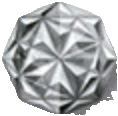
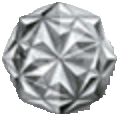
ネクサスもメインステップの手動コア移動でレベルを上げ下げできるようにした
moveCore が findSpirit しか見ておらず、**ネクサスは配置時に指定したレベルから変えられなかった**
（効果によるコア増減を除く）。利用者の指摘により修正。

- RuleValidator.validateMoveCore / GameEngine.doMoveCore がネクサスも対象にする。
  ネクサスの Lv1 は全カード0コアのため、既存の維持コア判定のままコア0まで戻せる
  （コアが無いネクサスからの取り除きは「コアが置かれていません」で拒否）
- exhaustOnManualCoreAdd（夢魔の寝所／魔影街）は効果文が「コアの数を増やした**スピリット**すべては
  疲労する」のため、ネクサスへのコア追加では発火させない
- クライアント: 自分のネクサスにもメインステップ中は +/− ボタンを出し、my-nexuses の
  クリックハンドラで data-core を先に処理する（スピリット側と同じ形）。
  ボタン生成は coreButtonsEl として共通化した

part86 で回帰（レベル上昇・下降・0まで戻せること・タイミングと持ち主の制限・寝所が反応しないこと）。
smoke 3,117件 / validate:cards 緑 / typecheck 緑 / build 緑。

diff --git a/scripts/smoke/part86.ts b/scripts/smoke/part86.ts
@@ -1,0 +1,93 @@
+// smoke パート86（ネクサスの手動コア移動＝レベルの上げ下げ）
+//
+// 従来 moveCore は findSpirit しか見ておらず、**ネクサスは配置時に指定したレベルから変えられなかった**
+// （効果によるコア増減を除く）。メインステップにコアを置く／戻すでレベルを上下できるようにした。
+// ネクサスの Lv1 は全カード0コアのため、既存の維持コア判定でそのまま0まで戻せる。
+import { act, assert, createGame, createInstance, currentLevel } from "./helpers"
+import type { GameState } from "./helpers"
+
+function setup(seed: string): GameState {
+    const s = createGame(seed, { p1: "アキラ", p2: "ユウキ" }, { p1: "red", p2: "purple" })
+    s.turn = 3
+    s.turnPlayer = "p1"
+    s.phase = "main"
+    s.players.p1.field.spirits = []
+    s.players.p2.field.spirits = []
+    s.players.p1.field.nexuses = []
+    s.players.p2.field.nexuses = []
+    s.players.p1.reserve = 5
+    s.players.p2.reserve = 5
+    return s
+}
+
+console.log("=== ネクサスにコアを置いてレベルを上げられる ===")
+{
+    const s = setup("nexus-corelevel-test")
+    const nexus = createInstance("BS01-098", s.turn, 0) // 燃えさかる戦場（Lv1=0 / Lv2=2コア）
+    s.players.p1.field.nexuses.push(nexus)
+    assert(currentLevel(nexus).level === 1, "配置直後はLv1")
+
+    assert(act(s, "p1", { type: "moveCore", instanceId: nexus.instanceId, direction: "add" }) === null, "コアを1個置く")
+    assert(act(s, "p1", { type: "moveCore", instanceId: nexus.instanceId, direction: "add" }) === null, "コアをもう1個置く")
+    assert(nexus.cores === 2, "ネクサスのコアが2個になる")
+    assert(currentLevel(nexus).level === 2, "Lv2になる")
+    assert(s.players.p1.reserve === 3, "リザーブから2個減る")
+}
+
+console.log("--- コアを戻してレベルを下げられる（0まで戻せる） ---")
+{
+    const s = setup("nexus-coredown-test")
+    const nexus = createInstance("BS01-098", s.turn, 2)
+    s.players.p1.field.nexuses.push(nexus)
+    assert(currentLevel(nexus).level === 2, "Lv2から開始")
+
+    assert(act(s, "p1", { type: "moveCore", instanceId: nexus.instanceId, direction: "remove" }) === null, "コアを1個戻す")
+    assert(currentLevel(nexus).level === 1, "Lv1に下がる")
+    assert(act(s, "p1", { type: "moveCore", instanceId: nexus.instanceId, direction: "remove" }) === null, "もう1個戻す")
+    assert(nexus.cores === 0, "コア0個まで戻せる（ネクサスのLv1は0コア）")
+    assert(s.players.p1.reserve === 7, "戻したコアがリザーブへ")
+
+    assert(
+        act(s, "p1", { type: "moveCore", instanceId: nexus.instanceId, direction: "remove" }) !== null,
+        "コアが無いネクサスからはこれ以上戻せない",
+    )
+}
+
+console.log("--- メインステップ以外・相手のネクサスは操作できない ---")
+{
+    const s = setup("nexus-core-timing-test")
+    const nexus = createInstance("BS01-098", s.turn, 0)
+    s.players.p1.field.nexuses.push(nexus)
+    const oppNexus = createInstance("BS01-098", s.turn, 0)
+    s.players.p2.field.nexuses.push(oppNexus)
+
+    s.phase = "attack"
+    assert(
+        act(s, "p1", { type: "moveCore", instanceId: nexus.instanceId, direction: "add" }) !== null,
+        "アタックステップでは操作できない",
+    )
+    s.phase = "main"
+    assert(
+        act(s, "p1", { type: "moveCore", instanceId: oppNexus.instanceId, direction: "add" }) !== null,
+        "相手のネクサスは操作できない",
+    )
+}
+
+console.log("--- 夢魔の寝所（コアを増やしたスピリットを疲労させる）はネクサスには反応しない ---")
+{
+    const s = setup("nexus-core-nemuri-test")
+    // 相手（p2）のフィールドに夢魔の寝所 Lv1。効果は『相手のメインステップ』＝p1のメインステップに効く
+    const bed = createInstance("BS02-078", s.turn, 0)
+    s.players.p2.field.nexuses.push(bed)
+
+    const myNexus = createInstance("BS01-098", s.turn, 0)
+    s.players.p1.field.nexuses.push(myNexus)
+    const mySpirit = createInstance("BS01-001", s.turn, 1)
+    s.players.p1.field.spirits.push(mySpirit)
+
+    assert(act(s, "p1", { type: "moveCore", instanceId: myNexus.instanceId, direction: "add" }) === null, "ネクサスにコアを置く")
+    assert(!myNexus.isRested, "ネクサスは疲労しない（効果の対象はスピリット）")
+
+    assert(act(s, "p1", { type: "moveCore", instanceId: mySpirit.instanceId, direction: "add" }) === null, "スピリットにコアを置く")
+    assert(mySpirit.isRested, "スピリットは従来どおり疲労する")
+}

diff --git a/public/src/renderer.ts b/public/src/renderer.ts
@@ -560,6 +560,21 @@ function renderField(
     }
 }
 
+// コア移動ボタン（+/−）。スピリットとネクサスで共用する
+function coreButtonsEl(instanceId: string): HTMLElement {
+    const btns = document.createElement("div")
+    btns.className = "core-buttons"
+    for (const dir of ["add", "remove"] as const) {
+        const b = document.createElement("button")
+        b.dataset.core = dir
+        b.dataset.instanceId = instanceId
+        b.textContent = dir === "add" ? "+" : "−"
+        b.title = dir === "add" ? "リザーブからコアを置く" : "コアをリザーブへ戻す"
+        btns.appendChild(b)
+    }
+    return btns
+}
+
 function fieldCardEl(
     view: GameView,
     ui: UiState,
@@ -659,6 +674,11 @@ function fieldCardEl(
             if (assigned < inst.cores) {
                 el.classList.add("targetable", "clickable")
             }
+            return el
+        }
+        // コア移動ボタン（メインステップのみ）。ネクサスもコアを置いてレベルを上げ下げできる
+        if (isMine && myMainFree && !view.pendingChoice) {
+            el.appendChild(coreButtonsEl(inst.instanceId))
         }
         return el
     }
@@ -771,17 +791,7 @@ function fieldCardEl(
         }
         // コア移動ボタン（メインステップのみ）
         if (myMainFree) {
-            const btns = document.createElement("div")
-            btns.className = "core-buttons"
-            for (const dir of ["add", "remove"] as const) {
-                const b = document.createElement("button")
-                b.dataset.core = dir
-                b.dataset.instanceId = inst.instanceId
-                b.textContent = dir === "add" ? "+" : "−"
-                b.title = dir === "add" ? "リザーブからコアを置く" : "コアをリザーブへ戻す"
-                btns.appendChild(b)
-            }
-            el.appendChild(btns)
+            el.appendChild(coreButtonsEl(inst.instanceId))
         }
     } else {
         // 指定アタックの対象選択モード中：フィルタに合う相手スピリットのみ選択可能

diff --git a/server/src/logic/RuleValidator.ts b/server/src/logic/RuleValidator.ts
@@ -317,11 +317,14 @@ export function validateMoveCore(
     const timing = checkMainTiming(state, pid)
     if (timing) return timing
     const player = state.players[pid]
-    const inst = findSpirit(player, instanceId)
-    if (!inst) return "対象のスピリットが見つかりません"
+    // ネクサスもレベルを上げ下げできる（コアを置く／戻す）。
+    // ネクサスの Lv1 は全カード0コアのため、下の維持コア判定でそのまま0まで戻せる
+    const inst = findSpirit(player, instanceId) ?? findNexus(player, instanceId)
+    if (!inst) return "対象のカードが見つかりません"
     if (direction === "add") {
         if (player.reserve < 1) return "リザーブにコアがありません"
     } else {
+        if (inst.cores < 1) return "コアが置かれていません"
         const need = minLevelCores(getCard(inst.cardId))
         if (inst.cores - 1 < need) {
             return "維持コア（Lv1）を下回るためコアを取り除けません"

diff --git a/server/src/logic/GameEngine.ts b/server/src/logic/GameEngine.ts
@@ -342,13 +342,16 @@ function doMoveCore(
     if (error) return error
 
     const player = state.players[pid]
-    const inst = findSpirit(player, instanceId)
-    if (!inst) return "対象のスピリットが見つかりません"
+    const spirit = findSpirit(player, instanceId)
+    const inst = spirit ?? findNexus(player, instanceId)
+    if (!inst) return "対象のカードが見つかりません"
 
     if (direction === "add") {
         player.reserve -= 1
         inst.cores += 1
-        checkExhaustOnCoreChange(state, pid, inst)
+        // 夢魔の寝所／魔影街は「コアの数を増やした**スピリット**すべては疲労する」ため、
+        // ネクサスへのコア追加では発火させない
+        if (spirit) checkExhaustOnCoreChange(state, pid, spirit)
     } else {
         inst.cores -= 1
         player.reserve += 1

diff --git a/public/src/main.ts b/public/src/main.ts
@@ -622,6 +622,16 @@ async function init(): Promise<void> {
 
     // ネクサスは通常操作の対象外だが、pendingChoiceの候補になる場合と支払いモード中はコア割り当て対象になる
     byId("my-nexuses").addEventListener("click", (e) => {
+        // コア移動ボタンが先（カードクリックと区別する）。ネクサスもコアでレベルを上げ下げできる
+        const coreBtn = closestData(e, "data-core")
+        if (coreBtn) {
+            send({
+                type: "moveCore",
+                instanceId: String(coreBtn.dataset.instanceId),
+                direction: coreBtn.dataset.core === "add" ? "add" : "remove",
+            })
+            return
+        }
         const el = closestData(e, "data-instance-id")
         if (!el) return
         const instanceId = String(el.dataset.instanceId)

diff --git a/scripts/smoke.ts b/scripts/smoke.ts
@@ -85,6 +85,7 @@ import "./smoke/part82"
 import "./smoke/part83"
 import "./smoke/part84"
 import "./smoke/part85"
+import "./smoke/part86"
 import { summary } from "./smoke/helpers"
 
 summary()

diff --git a/SPEC.md b/SPEC.md
@@ -930,6 +930,11 @@ choice 化が進めば解消する系統。
   メインステップのフラッシュ（バトル外）は優先権制の対象外
 - コスト支払いはスピリット上・**ネクサス上**のコアとの併用に対応済み（2026-07-19 対戦体験改善②。
   ネクサスは維持コア割れでも消滅せずレベルが下がるだけ。クライアントの支払いモードもネクサスクリック対応）
+- **ネクサスもメインステップの手動コア移動（`moveCore`）でレベルを上げ下げできる**（2026-08-01）。
+  従来は `findSpirit` のみを見ていたため、配置時に指定したレベルから変えられなかった。
+  ネクサスの Lv1 は全カード0コアなので、既存の維持コア判定のままコア0まで戻せる。
+  `exhaustOnManualCoreAdd`（夢魔の寝所／魔影街）は効果文が「コアの数を増やした**スピリット**」のため
+  ネクサスへの追加では発火させない
 - **「置くコア」（指定Lvぶんのコア）もフィールドのコアで賄える**（2026-08-01 利用者確認）。
   `paySources` の上限は `cost + maintain`。フィールドから取ったコアは**先にコストへ充当し、
   余りを置くコアへ**回す（コスト充当分はトラッシュへ、置くコア分は召喚/配置したカードの上へ直接置かれる）。
